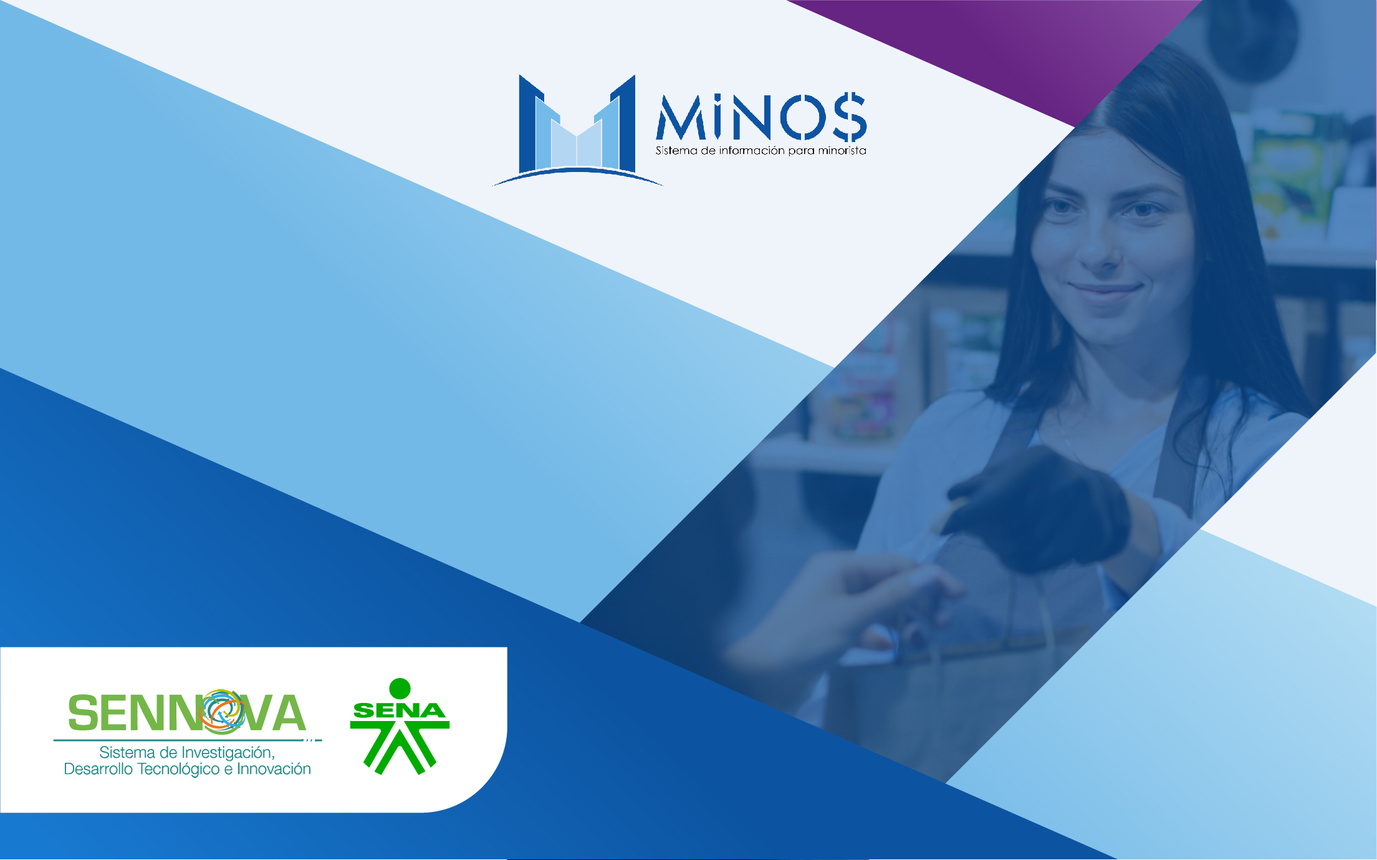
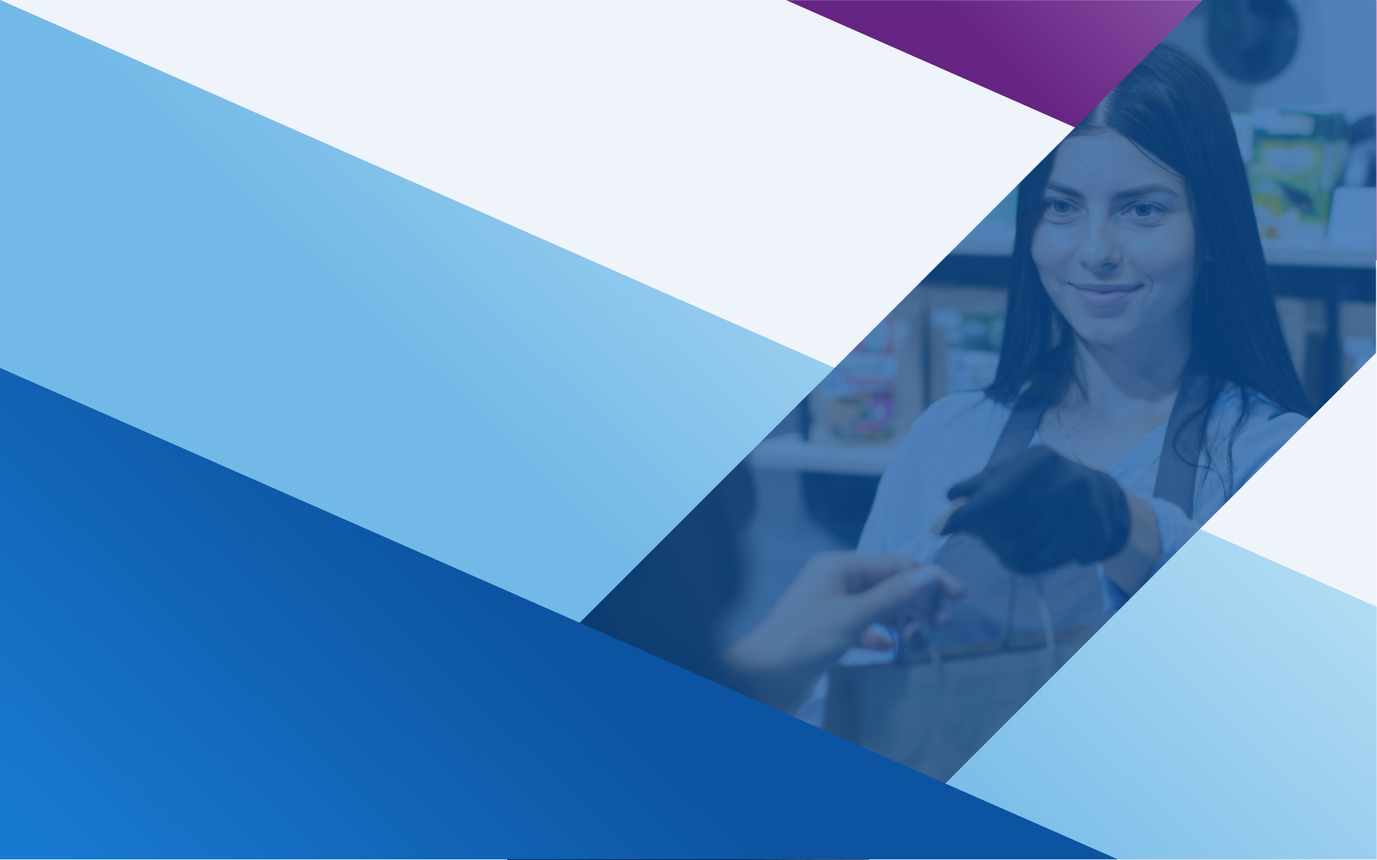
mas cambios vista welcome

Changed region(s): [[0.0, 0.7478, 0.3748, 0.9659], [0.3748, 0.0935, 0.6247, 0.2181]]

diff --git a/resources/views/welcome.blade.php b/resources/views/welcome.blade.php
@@ -4,7 +4,6 @@
 <head>
     <meta charset="utf-8">
     <meta name="viewport" content="width=device-width, initial-scale=1">
-
     <title>Laravel</title>
 
     <!-- Fonts -->
@@ -13,118 +12,244 @@
 
     <!-- Styles -->
     @vite('resources/css/app.css')
+
+    <!-- Custom CSS -->
+    <style>
+        body {
+            margin: 0;
+            overflow: hidden;
+        }
+
+        /* Fondo de la imagen */
+        .background-image {
+            position: absolute;
+            width: 100%;
+            height: 100%;
+            background-size: cover;
+            background-position: center;
+            z-index: -1;
+            filter: brightness(0.2);
+            /* Efecto oscurecido para resaltar las ondas */
+            transition: background-image 1s ease-in-out;
+        }
+
+        .wave-container {
+            position: relative;
+            width: 100%;
+            height: 100%;
+            /* Altura deseada */
+            /* background-color: #0099ff; */
+            /* Fondo detrás de las ondas */
+            overflow: hidden;
+        }
+
+        .content {
+            position: relative;
+            z-index: 10;
+            /* Para que el contenido esté sobre las ondas */
+            padding: 20px;
+            color: #ffffff;
+        }
+
+        .waves {
+            position: absolute;
+            bottom: 0;
+            width: 100%;
+            height: 100%;
+            opacity: 0.15;
+            /* Hace las ondas translúcidas */
+        }
+
+        .wave {
+            position: absolute;
+            bottom: 0;
+            width: 200%;
+            /* Anchura extra para la animación */
+            height: 100%;
+            fill: #ffffff;
+            /* Color blanco para el SVG */
+            animation: waveAnimation 8s linear infinite;
+        }
+
+        .wave:nth-child(2) {
+            opacity: 0.3;
+            animation-delay: -4s;
+        }
+
+        .wave:nth-child(3) {
+            opacity: 0.5;
+            animation-delay: -2s;
+        }
+
+        @keyframes waveAnimation {
+            0% {
+                transform: translateX(0);
+            }
+
+            100% {
+                transform: translateX(-50%);
+            }
+        }
+    </style>
 </head>
 
 <body class="antialiased">
-    <div class="relative sm:flex sm:justify-center sm:items-center min-h-screen bg-dots-darker bg-center bg-gray-100 selection:bg-red-500 selection:text-white">
-        @if (Route::has('login'))
-        <div class="sm:fixed sm:top-0 sm:right-0 p-6 text-right z-10">
-            @auth
-            <a href="{{ url('/dashboard') }}" class="font-semibold text-gray-600 hover:text-gray-900 focus:outline focus:outline-2 focus:rounded-sm focus:outline-red-500">Dashboard</a>
-            @else
-            <a href="{{ route('login') }}" class="font-semibold text-gray-600 hover:text-gray-900 focus:outline focus:outline-2 focus:rounded-sm focus:outline-red-500">Log in</a>
+    <!-- Fondo con imagen --> 
+    <div class="background-image" id="background-image">
+       
+    </div>
 
-            @if (Route::has('register'))
-            <a href="{{ route('register') }}" class="ml-4 font-semibold text-gray-600 hover:text-gray-900 focus:outline focus:outline-2 focus:rounded-sm focus:outline-red-500">Register</a>
-            @endif
-            @endauth
-        </div>
-        @endif
+    <div class="wave-container">
+        <div class="content">
+            <!-- Aquí va el contenido de tu página, que quedará sobre las ondas -->
+            <!-- Contenido -->
+            <div class="relative sm:flex sm:justify-center sm:items-center min-h-screen selection:bg-red-500 selection:text-white">
+                @if (Route::has('login'))
+                <div class="sm:fixed sm:top-0 sm:right-0 p-6 text-right z-10">
+                    @auth
+                    <a href="{{ url('/dashboard') }}" class="font-semibold text-gray-100 hover:text-gray-900 focus:outline focus:outline-2 focus:rounded-sm focus:outline-red-500">Dashboard</a>
+                    @else
+                    <a href="{{ route('login') }}" class="font-semibold text-gray-100 hover:text-gray-900 focus:outline focus:outline-2 focus:rounded-sm focus:outline-red-500">Log in</a>
+                    @if (Route::has('register'))
+                    <a href="{{ route('register') }}" class="ml-4 font-semibold text-gray-100 hover:text-gray-900 focus:outline focus:outline-2 focus:rounded-sm focus:outline-red-500">Register</a>
+                    @endif
+                    @endauth
+                </div>
+                @endif
+                <!-- Resto de tu contenido aquí -->
+                <div class="max-w-7xl mx-auto p-6 lg:p-8">
+                    <div class="flex justify-center">
+                       <img src="{{ asset('images/icono_central.png')}}"  walt="ligo minos" width="150" height="150">
+                    </div>
 
-        <div class="max-w-7xl mx-auto p-6 lg:p-8">
-            <div class="flex justify-center">
-                <svg viewBox="0 0 62 65" fill="none" xmlns="http://www.w3.org/2000/svg" class="h-16 w-auto bg-gray-100">
-                    <path d="M61.8548 14.6253C61.8778 14.7102 61.8895 14.7978 61.8897 14.8858V28.5615C61.8898 28.737 61.8434 28.9095 61.7554 29.0614C61.6675 29.2132 61.5409 29.3392 61.3887 29.4265L49.9104 36.0351V49.1337C49.9104 49.4902 49.7209 49.8192 49.4118 49.9987L25.4519 63.7916C25.3971 63.8227 25.3372 63.8427 25.2774 63.8639C25.255 63.8714 25.2338 63.8851 25.2101 63.8913C25.0426 63.9354 24.8666 63.9354 24.6991 63.8913C24.6716 63.8838 24.6467 63.8689 24.6205 63.8589C24.5657 63.8389 24.5084 63.8215 24.456 63.7916L0.501061 49.9987C0.348882 49.9113 0.222437 49.7853 0.134469 49.6334C0.0465019 49.4816 0.000120578 49.3092 0 49.1337L0 8.10652C0 8.01678 0.0124642 7.92953 0.0348998 7.84477C0.0423783 7.8161 0.0598282 7.78993 0.0697995 7.76126C0.0884958 7.70891 0.105946 7.65531 0.133367 7.6067C0.152063 7.5743 0.179485 7.54812 0.20192 7.51821C0.230588 7.47832 0.256763 7.43719 0.290416 7.40229C0.319084 7.37362 0.356476 7.35243 0.388883 7.32751C0.425029 7.29759 0.457436 7.26518 0.498568 7.2415L12.4779 0.345059C12.6296 0.257786 12.8015 0.211853 12.9765 0.211853C13.1515 0.211853 13.3234 0.257786 13.475 0.345059L25.4531 7.2415H25.4556C25.4955 7.26643 25.5292 7.29759 25.5653 7.32626C25.5977 7.35119 25.6339 7.37362 25.6625 7.40104C25.6974 7.43719 25.7224 7.47832 25.7523 7.51821C25.7735 7.54812 25.8021 7.5743 25.8196 7.6067C25.8483 7.65656 25.8645 7.70891 25.8844 7.76126C25.8944 7.78993 25.9118 7.8161 25.9193 7.84602C25.9423 7.93096 25.954 8.01853 25.9542 8.10652V33.7317L35.9355 27.9844V14.8846C35.9355 14.7973 35.948 14.7088 35.9704 14.6253C35.9792 14.5954 35.9954 14.5692 36.0053 14.5405C36.0253 14.4882 36.0427 14.4346 36.0702 14.386C36.0888 14.3536 36.1163 14.3274 36.1375 14.2975C36.1674 14.2576 36.1923 14.2165 36.2272 14.1816C36.2559 14.1529 36.292 14.1317 36.3244 14.1068C36.3618 14.0769 36.3942 14.0445 36.4341 14.0208L48.4147 7.12434C48.5663 7.03694 48.7383 6.99094 48.9133 6.99094C49.0883 6.99094 49.2602 7.03694 49.4118 7.12434L61.3899 14.0208C61.4323 14.0457 61.4647 14.0769 61.5021 14.1055C61.5333 14.1305 61.5694 14.1529 61.5981 14.1803C61.633 14.2165 61.6579 14.2576 61.6878 14.2975C61.7103 14.3274 61.7377 14.3536 61.7551 14.386C61.7838 14.4346 61.8 14.4882 61.8199 14.5405C61.8312 14.5692 61.8474 14.5954 61.8548 14.6253ZM59.893 27.9844V16.6121L55.7013 19.0252L49.9104 22.3593V33.7317L59.8942 27.9844H59.893ZM47.9149 48.5566V37.1768L42.2187 40.4299L25.953 49.7133V61.2003L47.9149 48.5566ZM1.99677 9.83281V48.5566L23.9562 61.199V49.7145L12.4841 43.2219L12.4804 43.2194L12.4754 43.2169C12.4368 43.1945 12.4044 43.1621 12.3682 43.1347C12.3371 43.1097 12.3009 43.0898 12.2735 43.0624L12.271 43.0586C12.2386 43.0275 12.2162 42.9888 12.1887 42.9539C12.1638 42.9203 12.1339 42.8916 12.114 42.8567L12.1127 42.853C12.0903 42.8156 12.0766 42.7707 12.0604 42.7283C12.0442 42.6909 12.023 42.656 12.013 42.6161C12.0005 42.5688 11.998 42.5177 11.9931 42.4691C11.9881 42.4317 11.9781 42.3943 11.9781 42.3569V15.5801L6.18848 12.2446L1.99677 9.83281ZM12.9777 2.36177L2.99764 8.10652L12.9752 13.8513L22.9541 8.10527L12.9752 2.36177H12.9777ZM18.1678 38.2138L23.9574 34.8809V9.83281L19.7657 12.2459L13.9749 15.5801V40.6281L18.1678 38.2138ZM48.9133 9.14105L38.9344 14.8858L48.9133 20.6305L58.8909 14.8846L48.9133 9.14105ZM47.9149 22.3593L42.124 19.0252L37.9323 16.6121V27.9844L43.7219 31.3174L47.9149 33.7317V22.3593ZM24.9533 47.987L39.59 39.631L46.9065 35.4555L36.9352 29.7145L25.4544 36.3242L14.9907 42.3482L24.9533 47.987Z" fill="#FF2D20" />
-                </svg>
-            </div>
+                    <div class="mt-5">
+                        <div class="grid grid-cols-1 md:grid-cols-2 gap-6 lg:gap-8">
+                            <a class="scale-100 bg-white from-gray-700/50 via-transparent rounded-lg shadow-2xl shadow-gray-500/20 flex motion-safe:hover:scale-[1.01] transition-all duration-250 focus:outline focus:outline-2 focus:outline-red-500" style="background-image: url({{asset('images/Welcome_img/Portada1.jpg')}}); background-repeat: no-repeat; background-size: cover; background-position: center; width: 100%; height: auto;">
 
-            <div class="mt-16">
-                <div class="grid grid-cols-1 md:grid-cols-2 gap-6 lg:gap-8">
-                    <a class="scale-100 bg-white from-gray-700/50 via-transparent rounded-lg shadow-2xl shadow-gray-500/20 flex motion-safe:hover:scale-[1.01] transition-all duration-250 focus:outline focus:outline-2 focus:outline-red-500" style="background-image: url({{asset('images/Welcome_img/Portada1.jpg')}}); background-repeat: no-repeat; background-size: cover; background-position: center; width: 100%; height: auto;">
+                                <div class="bg-blue-900 bg-opacity-70 rounded-lg">
+                                    <div class="p-6">
+                                        <div class="h-14 w-14 bg-red-50 flex items-center justify-center rounded-full">
+                                            <svg xmlns="http://www.w3.org/2000/svg" fill="none" viewBox="0 0 24 24" stroke-width="1.5" class="w-6 h-6 stroke-red-500">
+                                                <path stroke-linecap="round" stroke-linejoin="round" d="M12 6.042A8.967 8.967 0 006 3.75c-1.052 0-2.062.18-3 .512v14.25A8.987 8.987 0 016 18c2.305 0 4.408.867 6 2.292m0-14.25a8.966 8.966 0 016-2.292c1.052 0 2.062.18 3 .512v14.25A8.987 8.987 0 0018 18a8.967 8.967 0 00-6 2.292m0-14.25v14.25" />
+                                            </svg>
+                                        </div>
 
-                        <div class="bg-blue-900 bg-opacity-70 rounded-lg">
-                            <div class="p-6">
-                                <div class="h-14 w-14 bg-red-50 flex items-center justify-center rounded-full">
-                                    <svg xmlns="http://www.w3.org/2000/svg" fill="none" viewBox="0 0 24 24" stroke-width="1.5" class="w-6 h-6 stroke-red-500">
-                                        <path stroke-linecap="round" stroke-linejoin="round" d="M12 6.042A8.967 8.967 0 006 3.75c-1.052 0-2.062.18-3 .512v14.25A8.987 8.987 0 016 18c2.305 0 4.408.867 6 2.292m0-14.25a8.966 8.966 0 016-2.292c1.052 0 2.062.18 3 .512v14.25A8.987 8.987 0 0018 18a8.967 8.967 0 00-6 2.292m0-14.25v14.25" />
-                                    </svg>
+                                        <h2 class="mt-6 text-xl font-semibold text-gray-100">MINOS Tu aliado en la gestión contable para minoristas</h2>
+
+                                        <p class="mt-4 text-gray-100 text-sm leading-relaxed">
+                                            MINOS es una aplicación diseñada específicamente para simplificar y optimizar la gestión contable de tu negocio minorista. Con MINOS, podrás llevar un control preciso de tus ingresos, gastos, inventario y mucho más, todo en un solo lugar.
+                                        </p>
+                                    </div>
                                 </div>
-
-                                <h2 class="mt-6 text-xl font-semibold text-gray-100">MINOS Tu aliado en la gestión contable para minoristas</h2>
-
-                                <p class="mt-4 text-gray-100 text-sm leading-relaxed">
-                                    MINOS es una aplicación diseñada específicamente para simplificar y optimizar la gestión contable de tu negocio minorista. Con MINOS, podrás llevar un control preciso de tus ingresos, gastos, inventario y mucho más, todo en un solo lugar.
-                                </p>
-                            </div>
-                        </div>
-                    </a>
+                            </a>
 
 
-                    <a class="scale-100 bg-white from-gray-700/50 via-transparent rounded-lg shadow-2xl shadow-gray-500/20 flex motion-safe:hover:scale-[1.01] transition-all duration-250 focus:outline focus:outline-2 focus:outline-red-500 bg-cover bg-no-repeat bg-center" style="background-image: url({{asset('images/Welcome_img/Portada2.jpg')}});">
-                        <div class="bg-blue-900 bg-opacity-70 rounded-lg w-full">
-                            <div class="p-6">
-                                <div class="h-14 w-14 bg-red-50 flex items-center justify-center rounded-full">
-                                    <svg xmlns="http://www.w3.org/2000/svg" fill="none" viewBox="0 0 24 24" stroke-width="1.5" class="w-6 h-6 stroke-red-500">
-                                        <path stroke-linecap="round" d="M15.75 10.5l4.72-4.72a.75.75 0 011.28.53v11.38a.75.75 0 01-1.28.53l-4.72-4.72M4.5 18.75h9a2.25 2.25 0 002.25-2.25v-9a2.25 2.25 0 00-2.25-2.25h-9A2.25 2.25 0 002.25 7.5v9a2.25 2.25 0 002.25 2.25z" />
-                                    </svg>
+                            <a class="scale-100 bg-white from-gray-700/50 via-transparent rounded-lg shadow-2xl shadow-gray-500/20 flex motion-safe:hover:scale-[1.01] transition-all duration-250 focus:outline focus:outline-2 focus:outline-red-500 bg-cover bg-no-repeat bg-center" style="background-image: url({{asset('images/Welcome_img/Portada2.jpg')}});">
+                                <div class="bg-purple-900 bg-opacity-70 rounded-lg w-full">
+                                    <div class="p-6">
+                                        <div class="h-14 w-14 bg-red-50 flex items-center justify-center rounded-full">
+                                            <svg xmlns="http://www.w3.org/2000/svg" fill="none" viewBox="0 0 24 24" stroke-width="1.5" class="w-6 h-6 stroke-red-500">
+                                                <path stroke-linecap="round" d="M15.75 10.5l4.72-4.72a.75.75 0 011.28.53v11.38a.75.75 0 01-1.28.53l-4.72-4.72M4.5 18.75h9a2.25 2.25 0 002.25-2.25v-9a2.25 2.25 0 00-2.25-2.25h-9A2.25 2.25 0 002.25 7.5v9a2.25 2.25 0 002.25 2.25z" />
+                                            </svg>
+                                        </div>
+                                        <h2 class="mt-6 text-xl font-semibold text-gray-100">Características Destacadas</h2>
+                                        <p class="mt-4 text-gray-100 text-sm leading-relaxed">
+                                            Registra tus ventas de forma rápida y sencilla y realiza seguimiento de tus clientes. <br>
+                                            Lleva un registro detallado de tus productos, controla tu stock y realiza pedidos.<br>
+                                            Genera reportes financieros y concilia tus cuentas bancarias.<br>
+                                            Calcula y gestiona tus impuestos de manera eficiente.<br>
+                                            Obtén informes personalizados para analizar el desempeño de tu negocio.
+                                        </p>
+                                    </div>
                                 </div>
-                                <h2 class="mt-6 text-xl font-semibold text-gray-100">Características Destacadas</h2>
-                                <p class="mt-4 text-gray-100 text-sm leading-relaxed">
-                                    Registra tus ventas de forma rápida y sencilla y realiza seguimiento de tus clientes. <br>
-                                    Lleva un registro detallado de tus productos, controla tu stock y realiza pedidos.<br>
-                                    Genera reportes financieros y concilia tus cuentas bancarias.<br>
-                                    Calcula y gestiona tus impuestos de manera eficiente.<br>
-                                    Obtén informes personalizados para analizar el desempeño de tu negocio.
-                                </p>
+                            </a>
+
+
+
+                            <a class="scale-100  bg-white from-gray-700/50 via-transparent rounded-lg shadow-2xl shadow-gray-500/20 flex motion-safe:hover:scale-[1.01] transition-all duration-250 focus:outline focus:outline-2 focus:outline-red-500" style="background-image: url({{asset('images/Welcome_img/Portada1.jpg')}}); background-repeat: no-repeat; background-size: cover; background-position: center; width: 100%; height: auto;">
+                            <div class="bg-purple-900 bg-opacity-70 rounded-lg w-full">
+                            <div class="p-6">
+                                    <div class="h-14 w-14 bg-red-50 flex items-center justify-center rounded-full">
+                                        <svg xmlns="http://www.w3.org/2000/svg" fill="none" viewBox="0 0 24 24" stroke-width="1.5" class="w-6 h-6 stroke-red-500">
+                                            <path stroke-linecap="round" stroke-linejoin="round" d="M12 7.5h1.5m-1.5 3h1.5m-7.5 3h7.5m-7.5 3h7.5m3-9h3.375c.621 0 1.125.504 1.125 1.125V18a2.25 2.25 0 01-2.25 2.25M16.5 7.5V18a2.25 2.25 0 002.25 2.25M16.5 7.5V4.875c0-.621-.504-1.125-1.125-1.125H4.125C3.504 3.75 3 4.254 3 4.875V18a2.25 2.25 0 002.25 2.25h13.5M6 7.5h3v3H6v-3z" />
+                                        </svg>
+                                    </div>
+
+                                    <h2 class="mt-6 text-xl font-semibold text-gray-100">¿Por qué elegir MINOS?</h2>
+
+                                    <p class="mt-4 text-gray-100 text-sm leading-relaxed">
+                                        Intuitivo y fácil de usar: Diseñado para usuarios sin conocimientos avanzados. <br>
+                                        Seguro y confiable: Protege tus datos con las últimas medidas de seguridad. <br>
+                                        Soporte técnico: Contamos con un equipo de soporte listo para ayudarte. <br>
+                                        Escalable: Adaptable a las necesidades de cualquier tipo de negocio. <br>
+                                    </p>
+                                    <h2 class="mt-6 text-xl font-semibold text-gray-100">Comienza a mejorar tu gestión contable hoy mismo con MINOS.<br></h2>
+                                </div>
                             </div>
-                        </div>
-                    </a>
+                            </a>
 
+                            <div class="scale-100  bg-white from-gray-700/50 via-transparent rounded-lg shadow-2xl shadow-gray-500/20 flex motion-safe:hover:scale-[1.01] transition-all duration-250 focus:outline focus:outline-2 focus:outline-red-500" style="background-image: url({{asset('images/Welcome_img/Portada2.jpg')}});">
+                            <div class="bg-blue-900 bg-opacity-70 rounded-lg w-full">
+                            <div class="p-6">
+                                    <div class="h-14 w-14 bg-red-50 flex items-center justify-center rounded-full">
+                                        <svg xmlns="http://www.w3.org/2000/svg" fill="none" viewBox="0 0 24 24" stroke-width="1.5" class="w-6 h-6 stroke-red-500">
+                                            <path stroke-linecap="round" stroke-linejoin="round" d="M6.115 5.19l.319 1.913A6 6 0 008.11 10.36L9.75 12l-.387.775c-.217.433-.132.956.21 1.298l1.348 1.348c.21.21.329.497.329.795v1.089c0 .426.24.815.622 1.006l.153.076c.433.217.956.132 1.298-.21l.723-.723a8.7 8.7 0 002.288-4.042 1.087 1.087 0 00-.358-1.099l-1.33-1.108c-.251-.21-.582-.299-.905-.245l-1.17.195a1.125 1.125 0 01-.98-.314l-.295-.295a1.125 1.125 0 010-1.591l.13-.132a1.125 1.125 0 011.3-.21l.603.302a.809.809 0 001.086-1.086L14.25 7.5l1.256-.837a4.5 4.5 0 001.528-1.732l.146-.292M6.115 5.19A9 9 0 1017.18 4.64M6.115 5.19A8.965 8.965 0 0112 3c1.929 0 3.716.607 5.18 1.64" />
+                                        </svg>
+                                    </div>
 
+                                    <h2 class="mt-6 text-xl font-semibold text-gray-100">Beneficios para tu negocio</h2>
 
-                    <a class="scale-100 p-6 bg-white from-gray-700/50 via-transparent rounded-lg shadow-2xl shadow-gray-500/20 flex motion-safe:hover:scale-[1.01] transition-all duration-250 focus:outline focus:outline-2 focus:outline-red-500">
-                        <div>
-                            <div class="h-14 w-14 bg-red-50 flex items-center justify-center rounded-full">
-                                <svg xmlns="http://www.w3.org/2000/svg" fill="none" viewBox="0 0 24 24" stroke-width="1.5" class="w-6 h-6 stroke-red-500">
-                                    <path stroke-linecap="round" stroke-linejoin="round" d="M12 7.5h1.5m-1.5 3h1.5m-7.5 3h7.5m-7.5 3h7.5m3-9h3.375c.621 0 1.125.504 1.125 1.125V18a2.25 2.25 0 01-2.25 2.25M16.5 7.5V18a2.25 2.25 0 002.25 2.25M16.5 7.5V4.875c0-.621-.504-1.125-1.125-1.125H4.125C3.504 3.75 3 4.254 3 4.875V18a2.25 2.25 0 002.25 2.25h13.5M6 7.5h3v3H6v-3z" />
-                                </svg>
+                                    <p class="mt-4 text-gray-100 text-sm leading-relaxed">
+                                        Ahorra tiempo: Automatiza tareas repetitivas y reduce errores manuales. <br>
+                                        Mejora la toma de decisiones: Accede a información precisa y actualizada sobre tu negocio. <br>
+                                        Aumenta la eficiencia: Optimiza tus procesos contables y administrativos. <br>
+                                        Cumple con las normativas: Asegúrate de cumplir con todas las obligaciones fiscales. <br>
+                                    </p>
+                                </div>
                             </div>
-
-                            <h2 class="mt-6 text-xl font-semibold text-gray-900">¿Por qué elegir MINOS?</h2>
-
-                            <p class="mt-4 text-gray-500 text-sm leading-relaxed">
-                                Intuitivo y fácil de usar: Diseñado para usuarios sin conocimientos avanzados. <br>
-                                Seguro y confiable: Protege tus datos con las últimas medidas de seguridad. <br>
-                                Soporte técnico: Contamos con un equipo de soporte listo para ayudarte. <br>
-                                Escalable: Adaptable a las necesidades de cualquier tipo de negocio. <br>
-                            </p>
-                            <h2 class="mt-6 text-xl font-semibold text-gray-900">Comienza a mejorar tu gestión contable hoy mismo con MINOS.<br></h2>
-                        </div>
-                    </a>
-
-                    <div class="scale-100 p-6 bg-white from-gray-700/50 via-transparent rounded-lg shadow-2xl shadow-gray-500/20 flex motion-safe:hover:scale-[1.01] transition-all duration-250 focus:outline focus:outline-2 focus:outline-red-500">
-                        <div>
-                            <div class="h-14 w-14 bg-red-50 flex items-center justify-center rounded-full">
-                                <svg xmlns="http://www.w3.org/2000/svg" fill="none" viewBox="0 0 24 24" stroke-width="1.5" class="w-6 h-6 stroke-red-500">
-                                    <path stroke-linecap="round" stroke-linejoin="round" d="M6.115 5.19l.319 1.913A6 6 0 008.11 10.36L9.75 12l-.387.775c-.217.433-.132.956.21 1.298l1.348 1.348c.21.21.329.497.329.795v1.089c0 .426.24.815.622 1.006l.153.076c.433.217.956.132 1.298-.21l.723-.723a8.7 8.7 0 002.288-4.042 1.087 1.087 0 00-.358-1.099l-1.33-1.108c-.251-.21-.582-.299-.905-.245l-1.17.195a1.125 1.125 0 01-.98-.314l-.295-.295a1.125 1.125 0 010-1.591l.13-.132a1.125 1.125 0 011.3-.21l.603.302a.809.809 0 001.086-1.086L14.25 7.5l1.256-.837a4.5 4.5 0 001.528-1.732l.146-.292M6.115 5.19A9 9 0 1017.18 4.64M6.115 5.19A8.965 8.965 0 0112 3c1.929 0 3.716.607 5.18 1.64" />
-                                </svg>
                             </div>
-
-                            <h2 class="mt-6 text-xl font-semibold text-gray-900">Beneficios para tu negocio</h2>
-
-                            <p class="mt-4 text-gray-500 text-sm leading-relaxed">
-                                Ahorra tiempo: Automatiza tareas repetitivas y reduce errores manuales. <br>
-                                Mejora la toma de decisiones: Accede a información precisa y actualizada sobre tu negocio. <br>
-                                Aumenta la eficiencia: Optimiza tus procesos contables y administrativos. <br>
-                                Cumple con las normativas: Asegúrate de cumplir con todas las obligaciones fiscales. <br>
-                            </p>
                         </div>
                     </div>
                 </div>
+
             </div>
+            <h1>Contenido sobre las ondas</h1>
+            <p>Este es el contenido que no debe deformarse.</p>
+        </div>
+        <div class="waves">
+            <svg class="wave" viewBox="0 0 120 28" preserveAspectRatio="none">
+                <path d="M0 15 Q 30 30, 60 15 T 120 15 V30 H0 Z" />
+            </svg>
+            <svg class="wave" viewBox="0 0 120 28" preserveAspectRatio="none">
+                <path d="M0 20 Q 30 35, 60 20 T 120 20 V30 H0 Z" />
+            </svg>
+            <svg class="wave" viewBox="0 0 120 28" preserveAspectRatio="none">
+                <path d="M0 25 Q 30 40, 60 25 T 120 25 V30 H0 Z" />
+            </svg>
         </div>
     </div>
-    @vite('resources/js/app.js')
+
+
+
+
+
+    <!-- JavaScript para cambiar las imágenes -->
+    <script>
+        const images = [
+            '{{ asset("images/Welcome_img/Portada1.jpg") }}',
+            '{{ asset("images/Welcome_img/Portada2.jpg") }}',
+            '{{ asset("images/Welcome_img/Portada3.jpg") }}'
+        ];
+        let currentIndex = 0;
+        const backgroundImageElement = document.getElementById('background-image');
+
+        function changeBackgroundImage() {
+            currentIndex = (currentIndex + 1) % images.length;
+            backgroundImageElement.style.backgroundImage = `url('${images[currentIndex]}')`;
+        }
+
+        setInterval(changeBackgroundImage, 3000);
+    </script>
 </body>
 
 </html>
